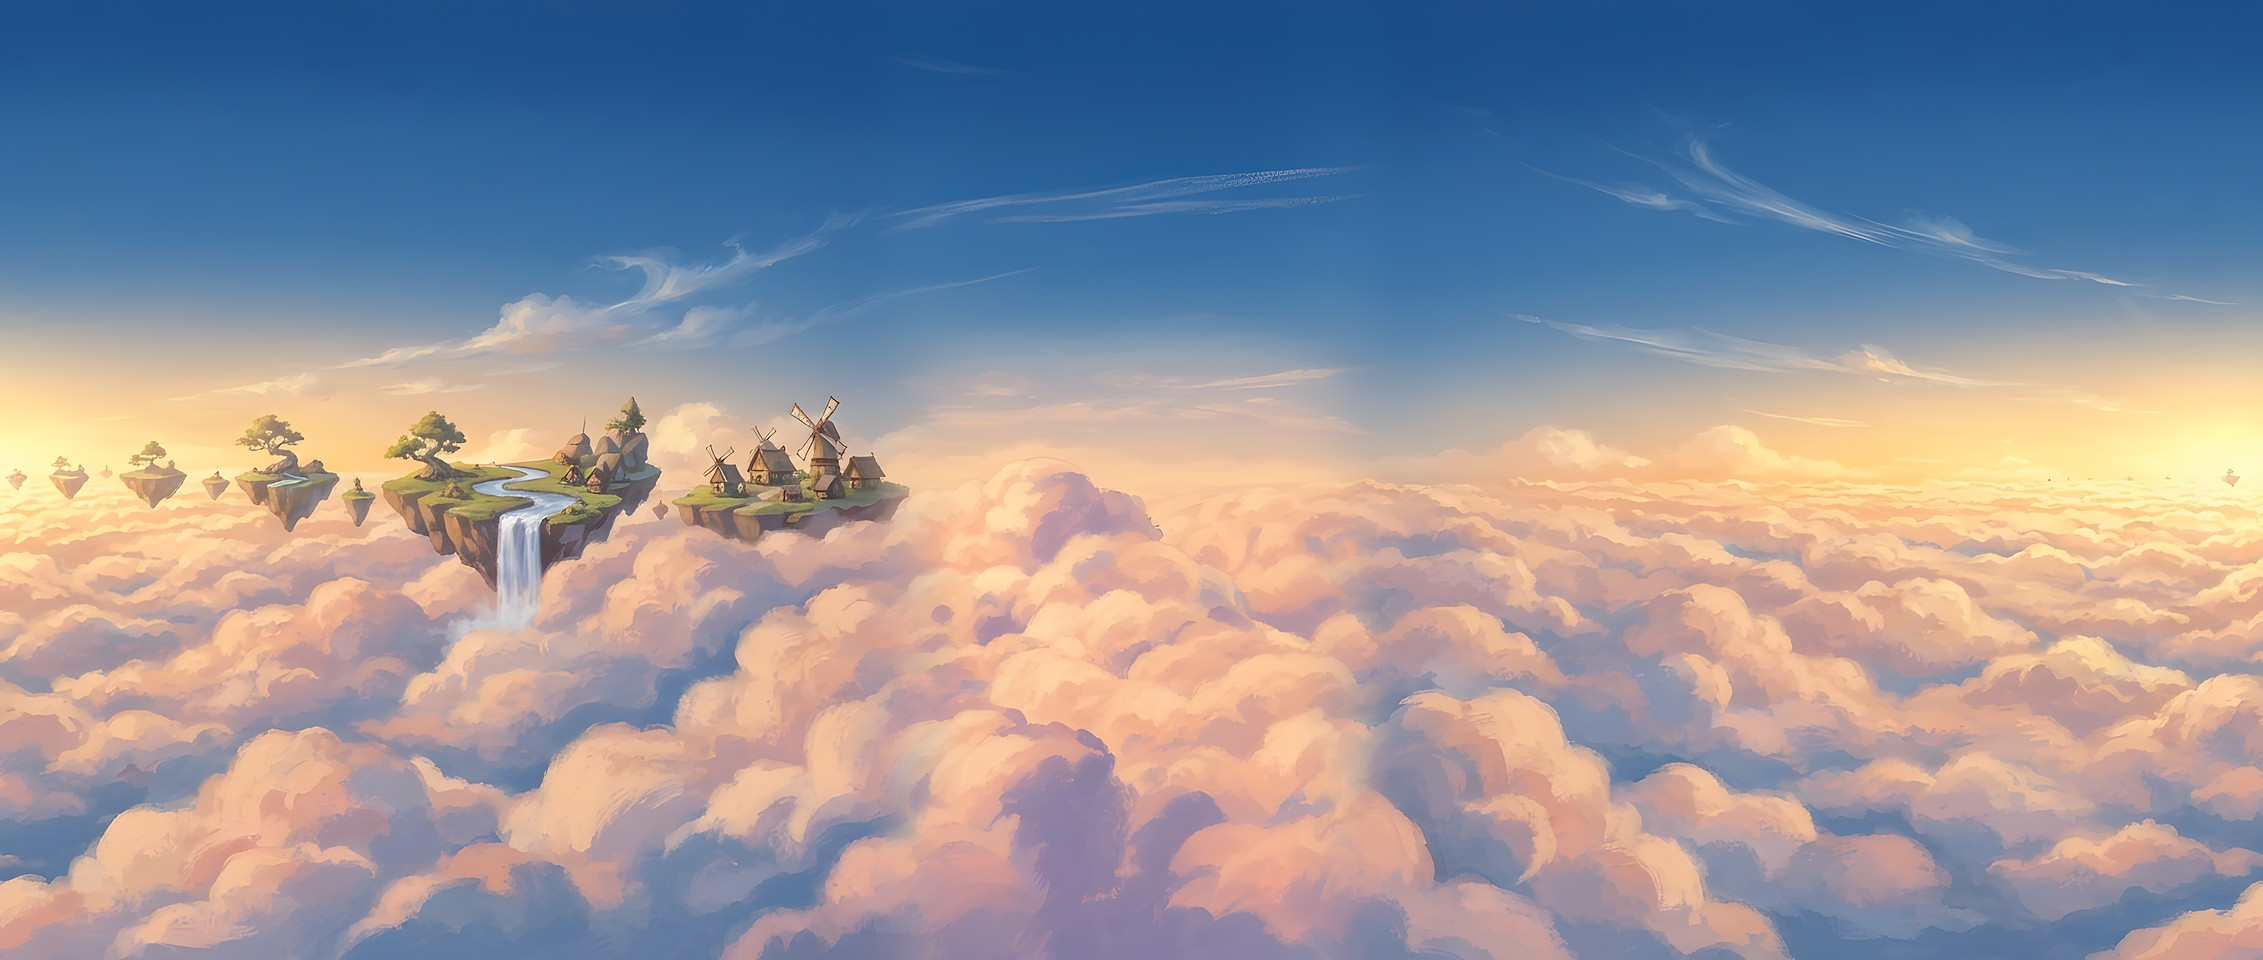
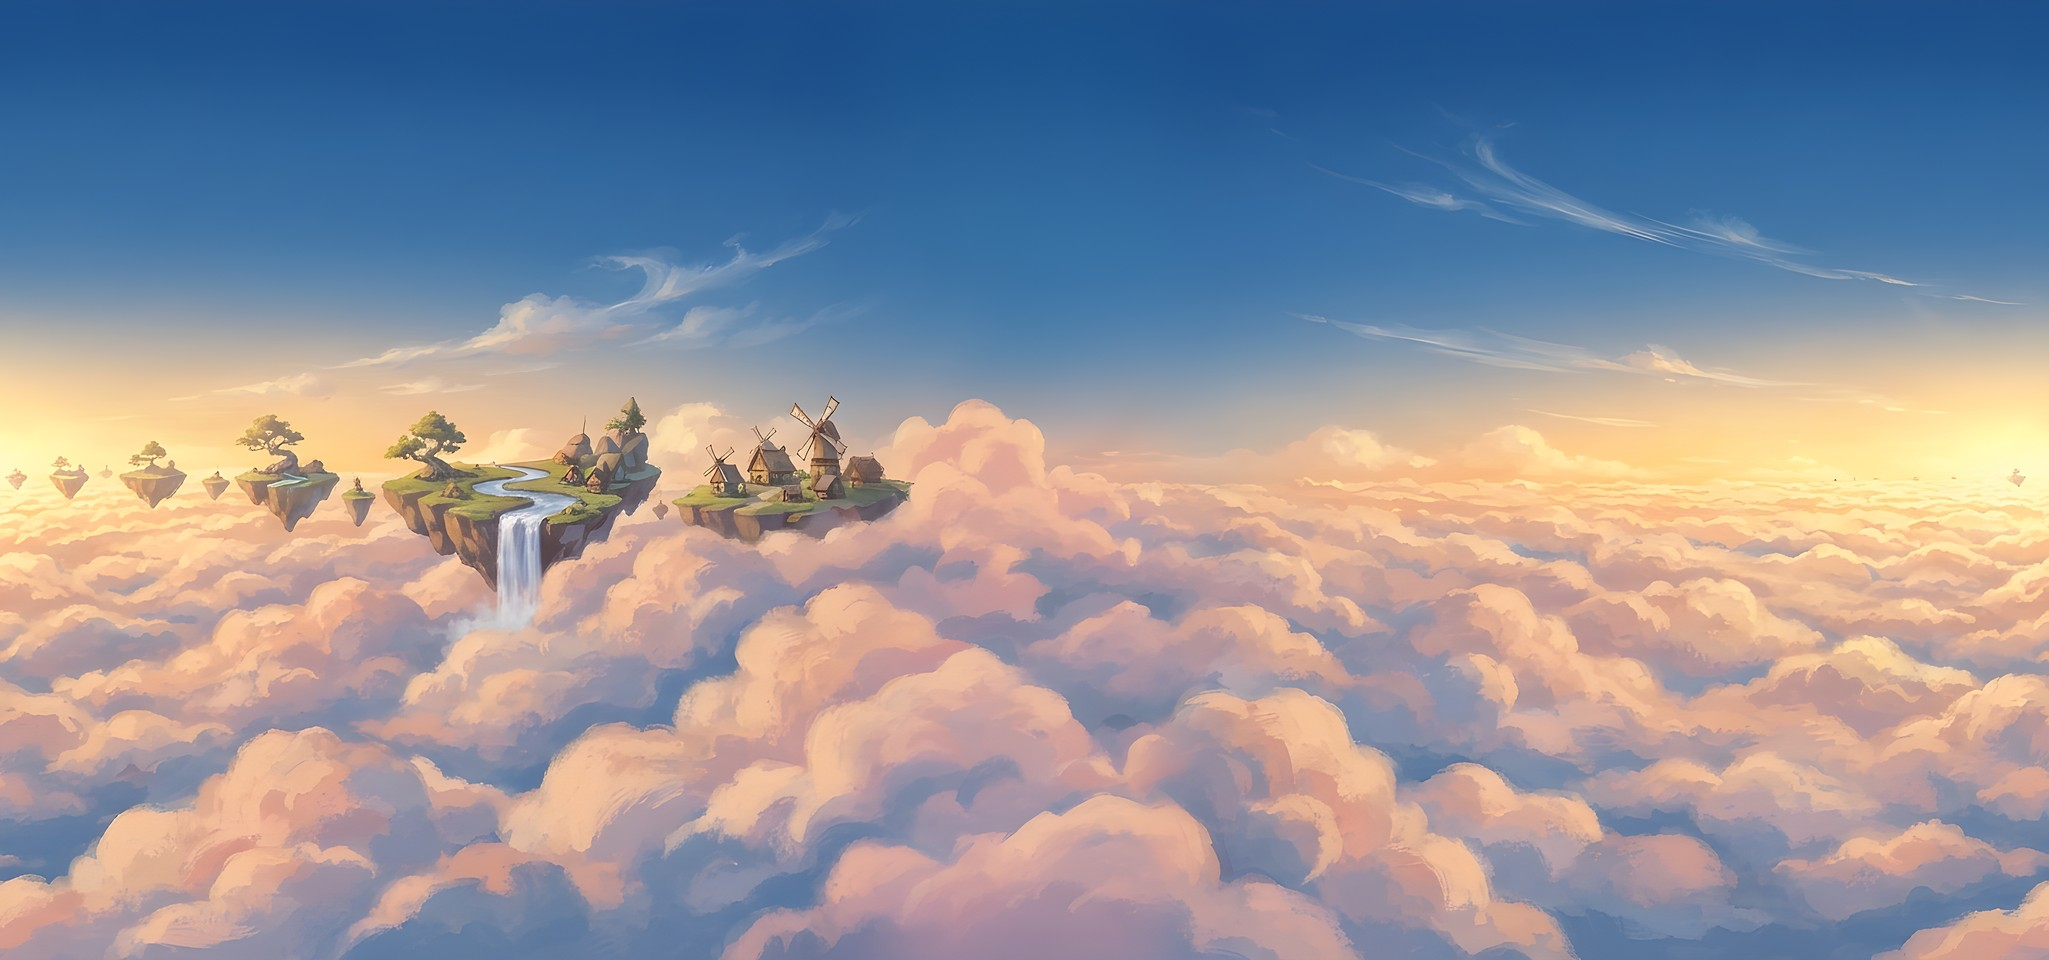
Небо: кольцо замкнуто смешиванием краёв на чистых облаках и мягкой чисткой в ComfyUI вместо перерисовки полосы — остров не обрезан, горизонт и дымка непрерывны; копии фона заходят друг на друга на 2 px

diff --git a/crates/game/src/menu.rs b/crates/game/src/menu.rs
@@ -964,7 +964,8 @@ fn backdrop(root: &mut ChildSpawnerCommands, assets: &AssetServer, view: &crate:
                 position_type: PositionType::Absolute,
                 left: px(0),
                 top: px(0),
-                width: px(sky.width),
+                // На 2 px шире шага: копии заходят друг на друга, без светлой нити на стыке.
+                width: px(sky.width + 2.0),
                 height: percent(100),
                 ..default()
             },
